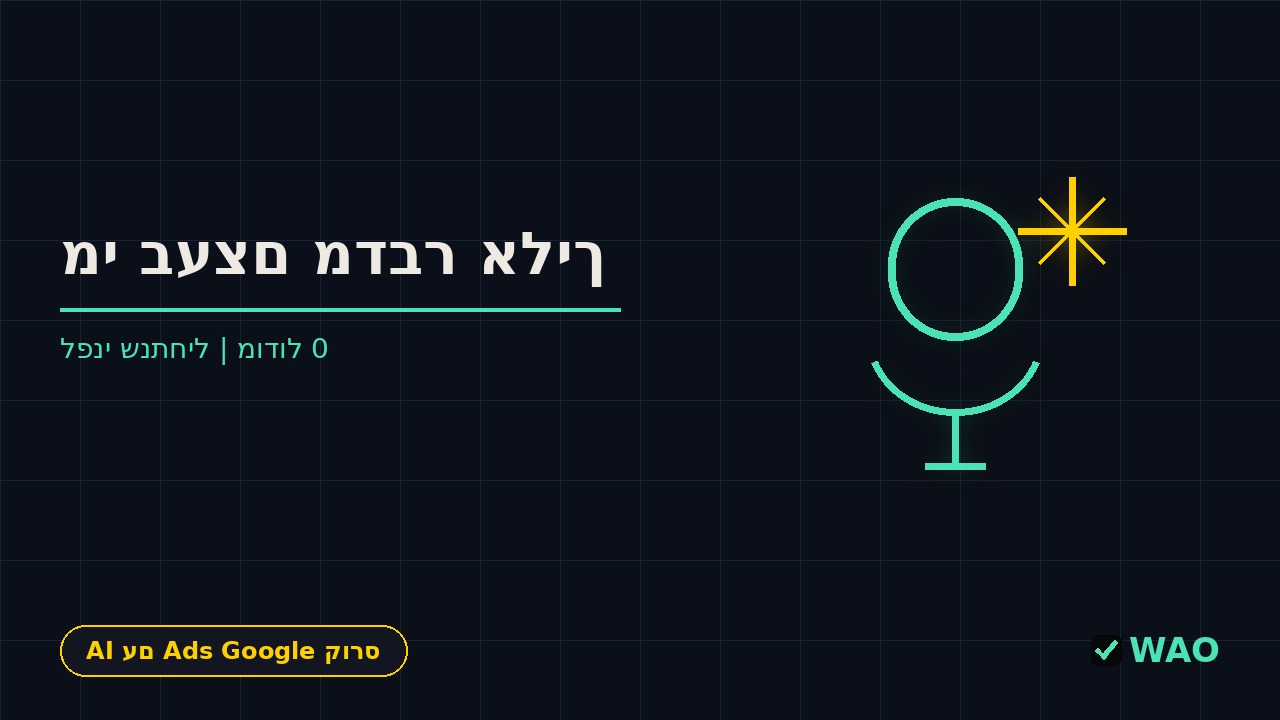
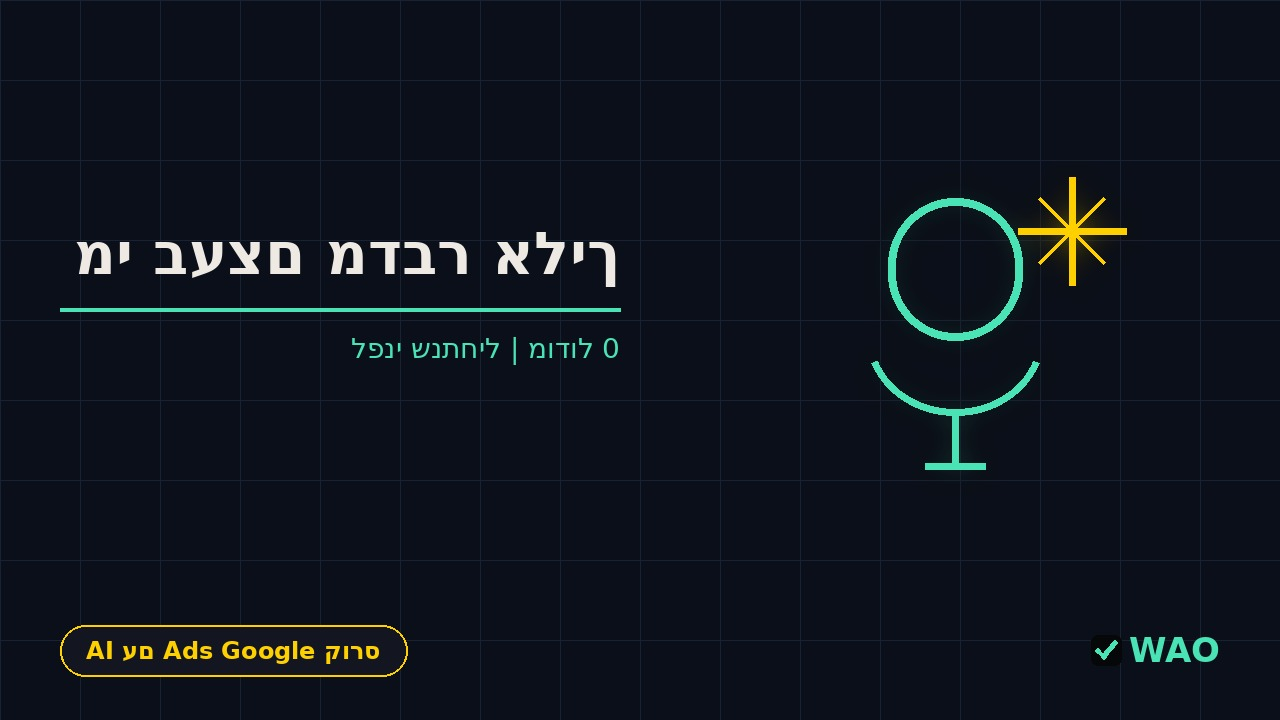
Fix RTL thumbnail text anchoring + regenerate course thumbnails
- gen_module3_4/5/6_thumbnails.py: anchor headline/label text at the right
  edge (anchor='ra' at right_x) instead of left-anchoring, correct for RTL
  Hebrew layout
- Regenerate 18 thumbnails with the unified generator
  (website-lesson-0, 6-21, google-ads-lesson-0)

Changed region(s): [[0.0312, 0.3056, 0.5, 0.3972], [0.0625, 0.4583, 0.5, 0.5194]]

diff --git a/scripts/gen_module6_thumbnails.py b/scripts/gen_module6_thumbnails.py
@@ -272,9 +272,10 @@ def build_thumbnail(lesson, course=DEFAULT_COURSE):
         f_headline = load_font(50, bold=True)
         lines = wrap_headline(draw, lesson["headline"], f_headline, max_text_width)
 
+    right_x = left_x + max_text_width
     y = 220
     for line in lines:
-        draw.text((left_x, y), rtl(line), font=f_headline, fill=WHITE, anchor="la")
+        draw.text((right_x, y), rtl(line), font=f_headline, fill=WHITE, anchor="ra")
         y += 68
 
     # teal divider
@@ -285,9 +286,9 @@ def build_thumbnail(lesson, course=DEFAULT_COURSE):
     label = lesson.get("label")
     label_text = f"{label} | מודול {lesson['module']}" if label else f"שיעור {lesson['n']} | מודול {lesson['module']}"
     draw.text(
-        (left_x, div_y + 24),
+        (right_x, div_y + 24),
         rtl(label_text),
-        font=f_label, fill=TEAL, anchor="la",
+        font=f_label, fill=TEAL, anchor="ra",
     )
 
     # icon on the right, neon glow

diff --git a/scripts/gen_module3_4_thumbnails.py b/scripts/gen_module3_4_thumbnails.py
@@ -281,9 +281,10 @@ def build_thumbnail(lesson):
         f_headline = load_font(50, bold=True)
         lines = wrap_headline(draw, lesson["headline"], f_headline, max_text_width)
 
+    right_x = left_x + max_text_width
     y = 220
     for line in lines:
-        draw.text((left_x, y), rtl(line), font=f_headline, fill=WHITE, anchor="la")
+        draw.text((right_x, y), rtl(line), font=f_headline, fill=WHITE, anchor="ra")
         y += 68
 
     # teal divider
@@ -292,9 +293,9 @@ def build_thumbnail(lesson):
 
     # module | lesson label
     draw.text(
-        (left_x, div_y + 24),
+        (right_x, div_y + 24),
         rtl(f"שיעור {lesson['n']} | מודול {lesson['module']}"),
-        font=f_label, fill=TEAL, anchor="la",
+        font=f_label, fill=TEAL, anchor="ra",
     )
 
     # icon on the right, neon glow

diff --git a/scripts/gen_module5_thumbnails.py b/scripts/gen_module5_thumbnails.py
@@ -171,9 +171,10 @@ def build_thumbnail(lesson):
     max_text_width = 560
 
     lines = wrap_headline(draw, lesson["headline"], f_headline, max_text_width)
+    right_x = left_x + max_text_width
     y = 220
     for line in lines:
-        draw.text((left_x, y), rtl(line), font=f_headline, fill=WHITE, anchor="la")
+        draw.text((right_x, y), rtl(line), font=f_headline, fill=WHITE, anchor="ra")
         y += 68
 
     # teal divider
@@ -182,9 +183,9 @@ def build_thumbnail(lesson):
 
     # module | lesson label
     draw.text(
-        (left_x, div_y + 24),
+        (right_x, div_y + 24),
         rtl(f"שיעור {lesson['n']} | מודול {lesson['module']}"),
-        font=f_label, fill=TEAL, anchor="la",
+        font=f_label, fill=TEAL, anchor="ra",
     )
 
     # icon on the right, neon glow
